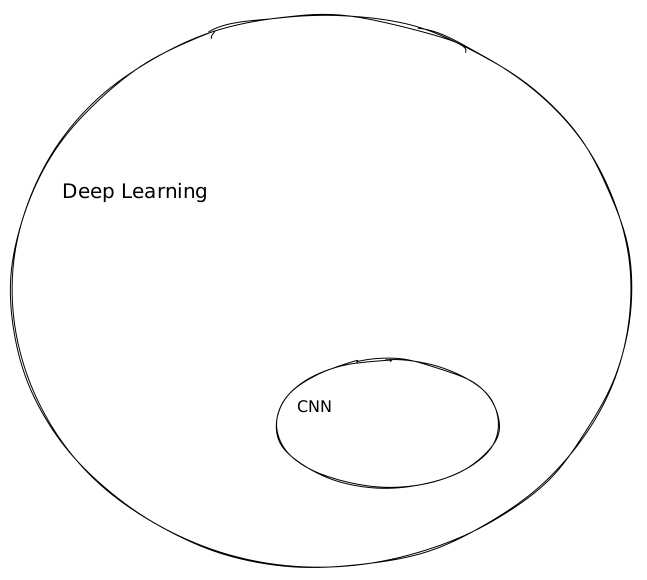
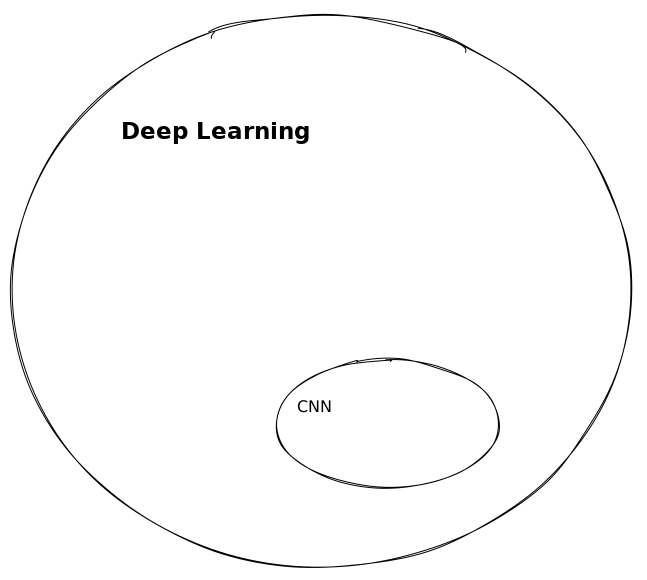
Adjust & demo
Adjust images & size

Add demo page and tfs hub

Remove explain on OBS

Changed region(s): [[0.1855, 0.1862, 0.4946, 0.2483], [0.0927, 0.3103, 0.34, 0.3414]]

diff --git a/index.html b/index.html
@@ -293,7 +293,6 @@
 					</aside>
 				</section><section data-timing="30">
 					<h2>ML ⊆ Artificial Intelligence</h2>
-					<!-- TODO image -->
 					<img src="images/ai.png" />
 					<aside class="notes">
 						<b>LOUIS</b><br />
@@ -305,7 +304,6 @@
 				</section>
 				</section>
 				<section data-timing="4" data-autoslide="4000">
-					<!-- TODO image -->
 					<img src="images/cncf-landscape.png" />
 					<aside class="notes">
 						<b>PIERRE</b><br />
@@ -344,12 +342,12 @@
 					<h2>Du “euhh” entendu à 🐮, c'est 🤪 time</h2>
 					<aside class="notes">
 						<b>LOUIS</b><br />
-						Et nous allons justement voir comment l'on affiche dans notre (webcam/browser) le euhh une fois qu'il a été repéré.
+						Et nous allons justement voir comment l'on affiche dans notre browser le euhh une fois qu'il a été repéré.
 					</aside>
 				</section>
 				<section>
 					<section data-timing="20">
-						<h3>Dans cette présentation</h3>
+						<h3>Intégration dans le browser</h3>
 						<ul>
 							<li>revealjs pour les slides au format web</li>
 							<li>tensorflow.js pour utiliser le modèle généré</li>
@@ -360,7 +358,7 @@
 						</aside>
 					</section>
 					<section data-timing="60">
-						<h3>L'intégration de Tensorflow.js</h3>
+						<h3>Mise en place de Tensorflow.js</h3>
 						<pre>
 							<code data-line-numbers="35|17-18|2-14|19-30">
 								<script type="text/template">
@@ -441,59 +439,65 @@
 						</aside>
 					</section>
 				</section>
-				<section>
-					<section data-timing="30">
-						<h3>La version pour le remote</h3>
-						<table>
-							<tbody>
-								<tr>
-									<td>
-										<img src="images/pierre_euhh.gif"/>
-									</td>
-									<td>
-										<img src="images/louis_euhh.gif"/>
-									</td>
-								</tr>
-							</tbody>
-						</table>
-						<aside class="notes">
-							<b>PIERRE</b><br />
-						</aside>
-					</section>
-					<section data-timing="60">
-						<h3>Comment ça marche ?</h3>
-						<img src="images/implementation-obs.png" />
-						<aside class="notes">
-							<b>PIERRE</b><br />
-							Il s'agit là d'une version que nous avons fait pour le mode "remote". Cette version interagit avec notre webcam. Nous
-							avons ici 2 entrée à mixer:<br />
-							- Un programme qui écoute le flux audio et qui avec le modèle que nous avons entraîné détecte si le motif sonore "Euhh"
-							est présent. Si il est présent il affiche Euhh.<br />
-							- Et notre webcat qui renvoi notre flux vidéo<br />
-							<br />
-							Nous utilisons ensuite un autre programme pour assembler ces 2 flux:<br />
-							- Capturer le visuel du programme qui affiche Euhh<br />
-							- Le superposer à notre flux vidéo mais en ne prenant que le modif Euhh (filtre chromatique)<br />
-							- Et transformer tout cela en une sortie vidéo sous la forme d'une caméra virtuelle qui peut être utilisée en tant que
-							webcam.
-							<br />
-							(P5 JS > ML5 JS > TensorFlow)<br />
-							(filtre chroma key ou incrustation par chrominance dans OBS)
-						</aside>
-					</section>
-				</section>
+				<!-- -->
 				<section data-timing="20">
 					<h3>Durant de cette présentation</h3>
-					<div id="score-container-final"></div>
-					<br/>
+					<div name="score-container-final"></div>
+					<br />
 					Aucun animal et aucun émoji n'ont été maltraités 💚
 					<aside class="notes">
 						<b>PIERRE</b><br />
 					</aside>
 				</section>
 				<!-- -->
+				<section data-timing="30" autoPlayMedia="true">
+					<h3>Et pour bien finir, votre demo</h3>
+					<a href="https://teachablemachine.withgoogle.com/" target="_blank" style="text-align:center">
+						<video width="640" height="480" autoplay>
+							<source src="https://teachablemachine.withgoogle.com/assets/prediction.mp4" type="video/mp4">
+						</video>
+						<br />
+						Teachable Machine
+					</a>
+					<aside class="notes">
+						
+					</aside>
+				</section>
+
+				<section data-timing="30">
+					<h3>Un autre exemple d'usage : une web cam virtuel avec des Euhhhh</h3>
+					<table>
+						<tbody>
+							<tr>
+								<td>
+									<img src="images/pierre_euhh.gif" />
+								</td>
+								<td>
+									<img src="images/louis_euhh.gif" />
+								</td>
+							</tr>
+						</tbody>
+					</table>
+					<aside class="notes">
+						<b>PIERRE</b><br />
+						Cela fait toujours son effet en réunion à distance
+					</aside>
+				</section>
+
+				<section data-timing="30">
+					<h3>Tips www.tensorflow.org/hub/</h3>
+					<img src="images/tsfhub.jpg" />
+					<aside class="notes">
+						<b>Louis</b><br />
+						Il y a plein de de ressources, de modèles, de choses à voir, ce n'est pas simple de s'y retrouver mais tensorflow hub for the win...
+					</aside>
+				</section>
+				<!-- -->
 				<section data-timing="30">
 					<h2>🙏 ❓</h2>
+					<br />
+					<br />
+					<div name="score-container-final" style="font-size: 0.6em; align-content: center;"/>
 					<aside class="notes">
 						<b>LOUIS</b><br />
 						Merci à vous, nous espérons que cela vous a appris des choses et que cela vous a donné envie de tester.<br />
@@ -538,8 +542,8 @@
 				hash: true,
 				autoPlayMedia: true,
 
-				width: 1400,
-				height: 800,
+				width: 1920,
+				height: 1080,
 
 				// Factor of the display size that should remain empty around
 				// the content

diff --git a/js/ml.js b/js/ml.js
@@ -14,7 +14,7 @@ const PROBABILITY_THRESHOLD = 0.91;
 
 const MAP_MIN_PROBABILITY_PER_LABELS = {
     "Euuh": PROBABILITY_THRESHOLD,
-    "Yolo": PROBABILITY_THRESHOLD + 0.08,
+    "Yolo": PROBABILITY_THRESHOLD + 0.05,
     "Next": PROBABILITY_THRESHOLD + 0.05,
     "Back": PROBABILITY_THRESHOLD + 0.05
 };
@@ -43,7 +43,12 @@ async function init() {
         labelContainer.appendChild(document.createElement("div"));
         nbs[i] = 0;
     }
-    document.getElementById("score-container-final").innerHTML = "<h1>🐮 " + nbs[classLabels.indexOf("Euuh")] + " 🤪 " + nbs[classLabels.indexOf("Yolo")] + "</h1>";
+
+    document.getElementsByName("score-container-final").forEach(element => {
+        element.innerHTML = "<h1>🐮 " + nbs[classLabels.indexOf("Euuh")] + " 🤪 " + nbs[classLabels.indexOf("Yolo")] + "</h1>";
+    });
+     
+    //document.getElementById("score-container-final").innerHTML = "<h1>🐮 " + nbs[classLabels.indexOf("Euuh")] + " 🤪 " + nbs[classLabels.indexOf("Yolo")] + "</h1>";
 
     // listen() takes two arguments:
     // 1. A callback function that is invoked anytime a word is recognized.
@@ -58,7 +63,7 @@ async function init() {
         const index = scores.indexOf(maxScore);
         const label = classLabels[index];
 
-        console.log(label + ":" + maxScore);
+        //console.log(label + ":" + maxScore);
 
         if ((lastLabel != label || (last + MIN_TIME_BEETWEEN_MS * 2) < Date.now()) &&
             MAP_MIN_PROBABILITY_PER_LABELS[label] <= maxScore
@@ -80,7 +85,9 @@ async function init() {
                     labelContainer.className = 'hide';
                 }, MIN_TIME_BEETWEEN_MS);
             }
-            document.getElementById("score-container-final").innerHTML = "<h1>🐮 " + nbs[classLabels.indexOf("Euuh")] + " 🤪 " + nbs[classLabels.indexOf("Yolo")] + "</h1>";
+            document.getElementsByName("score-container-final").forEach(element => {
+                element.innerHTML = "<h1>🐮 " + nbs[classLabels.indexOf("Euuh")] + " 🤪 " + nbs[classLabels.indexOf("Yolo")] + "</h1>";
+            });
         }
         lastLabel = label;
         last = Date.now();
